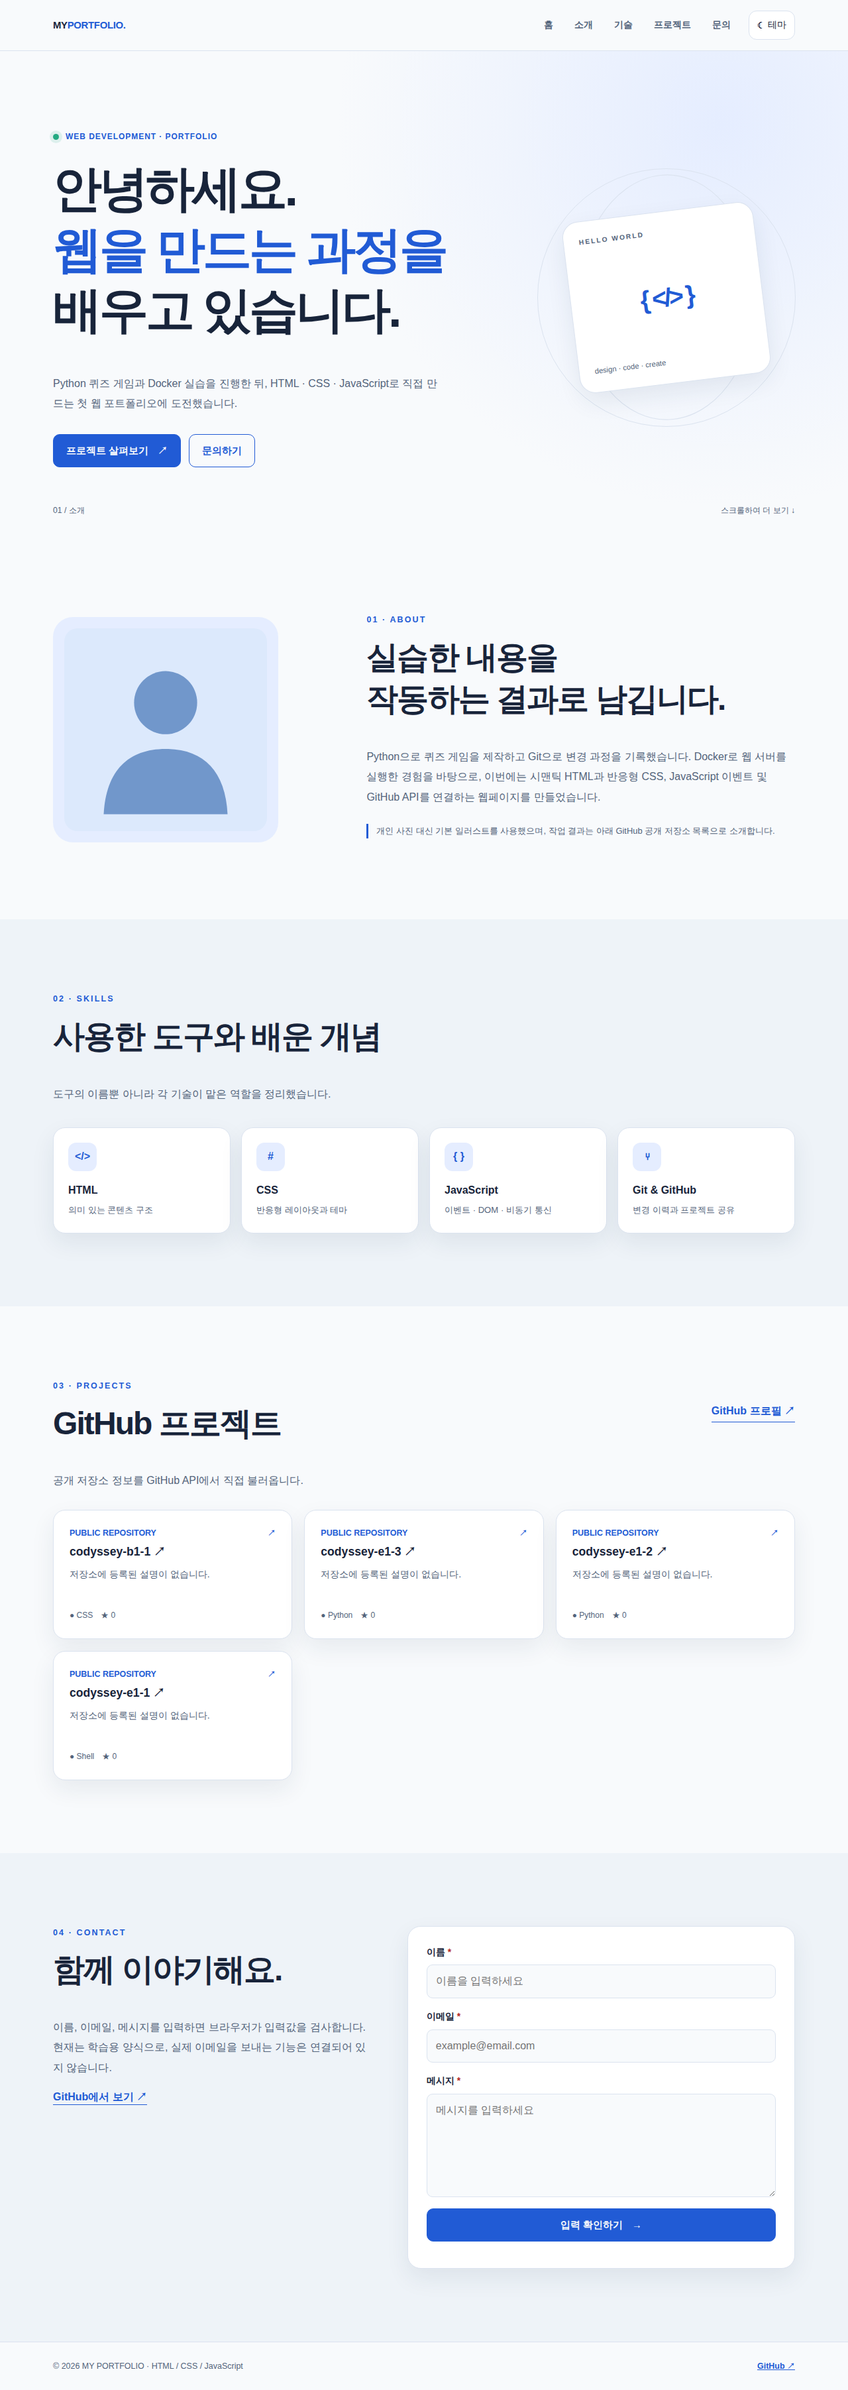
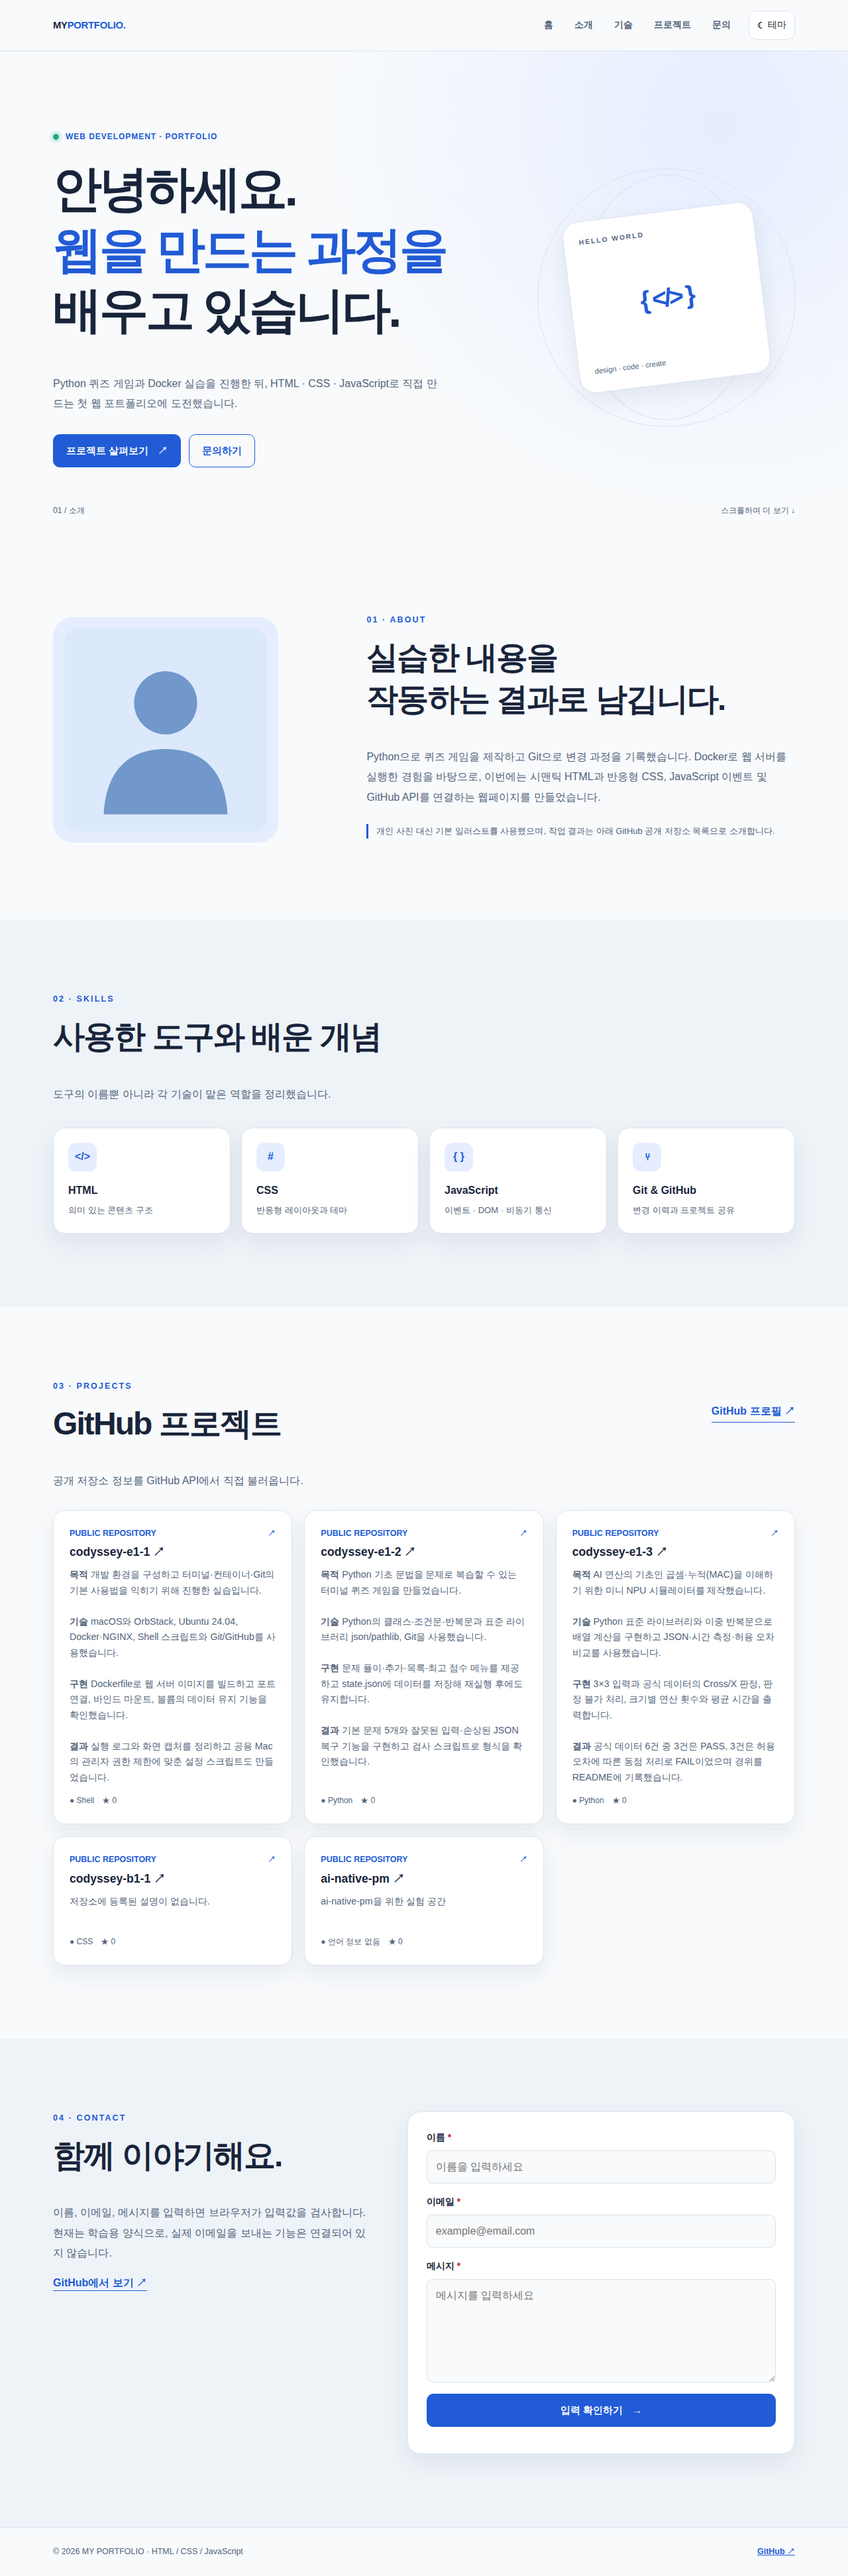
docs: refresh genuine deployed screenshots after E1 descriptions

diff --git a/docs/screenshots/LIVE_QA.md b/docs/screenshots/LIVE_QA.md
@@ -1,12 +1,15 @@
 # Live-site browser verification
 
-Date: 2026-09-20T05:56:05.816Z
+Date: 2026-09-20T06:44:49.532Z
 Source: https://usernameffas.github.io/codyssey-b1-1/
 Browser: automated Chromium on GitHub Actions; not a physical Samsung or Windows device.
 The screenshots below come from the publicly deployed site, not mock API or local memory.
 
 - Desktop 1280px: HTTP 200; full-page screenshot desktop.png; horizontal overflow: false.
-- Projects area on live site: GitHub repository links found = 4; visible text excerpt: "PUBLIC REPOSITORY ↗ codyssey-b1-1 ↗ 저장소에 등록된 설명이 없습니다. ● CSS ★ 0 PUBLIC REPOSITORY ↗ codyssey-e1-3 ↗ 저장소에 등록된 설명이 없습니다. ● Python ★ 0 PUBLIC REPOSITORY ↗ codyssey-e1-2 ↗ 저장소에 등록된 설명이 없습니다. ● Python ★ 0 PUBLIC REPOSITORY ↗ codyssey-e1-1 ↗ 저장소에 등록된 설명이 ".
+- Projects area on live site: GitHub repository links found = 5; visible text excerpt: "PUBLIC REPOSITORY ↗ codyssey-e1-1 ↗ 목적 개발 환경을 구성하고 터미널·컨테이너·Git의 기본 사용법을 익히기 위해 진행한 실습입니다. 기술 macOS와 OrbStack, Ubuntu 24.04, Docker·NGINX, Shell 스크립트와 Git/GitHub를 사용했습니다. 구현 Dockerfile로 웹 서버 이미지를 빌드하고 포트 연결, 바인드 마운트, 볼륨의 데이터 유지 기능을 확인했습니다. 결과 실행 로그와 ".
+- Verified project summary: codyssey-e1-1 has purpose, technology, implementation and outcome.
+- Verified project summary: codyssey-e1-2 has purpose, technology, implementation and outcome.
+- Verified project summary: codyssey-e1-3 has purpose, technology, implementation and outcome.
 - Mobile menu: opened aria-expanded=true; closed after navigation=false.
 - Invalid email displays field error: true.
 - Valid contact input confirms validation but no real email is sent: true.
